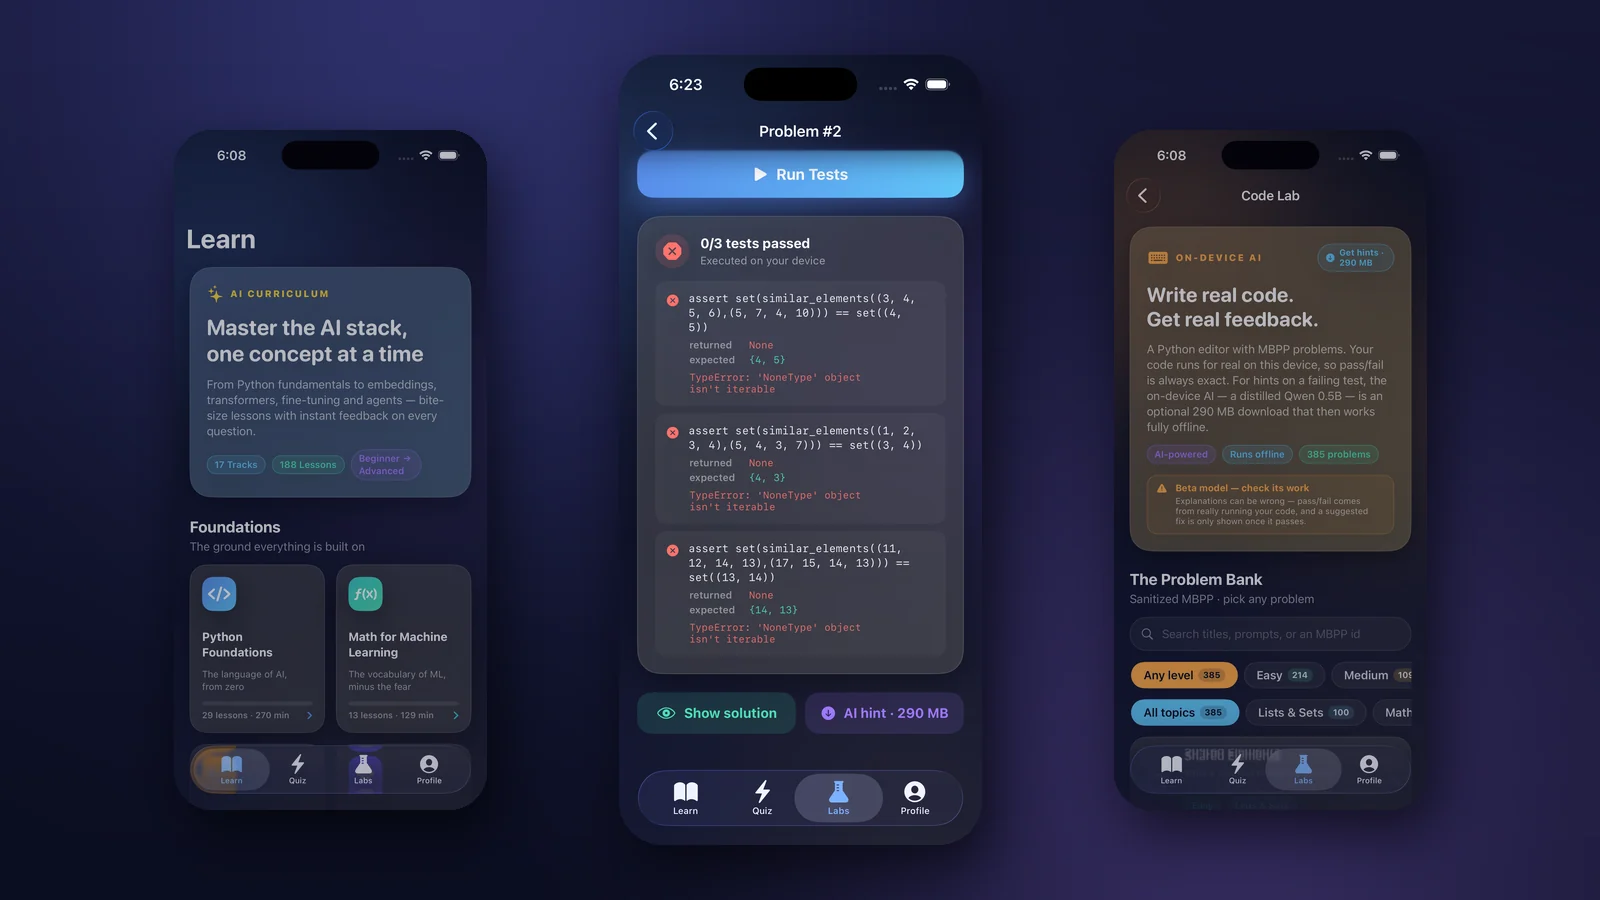
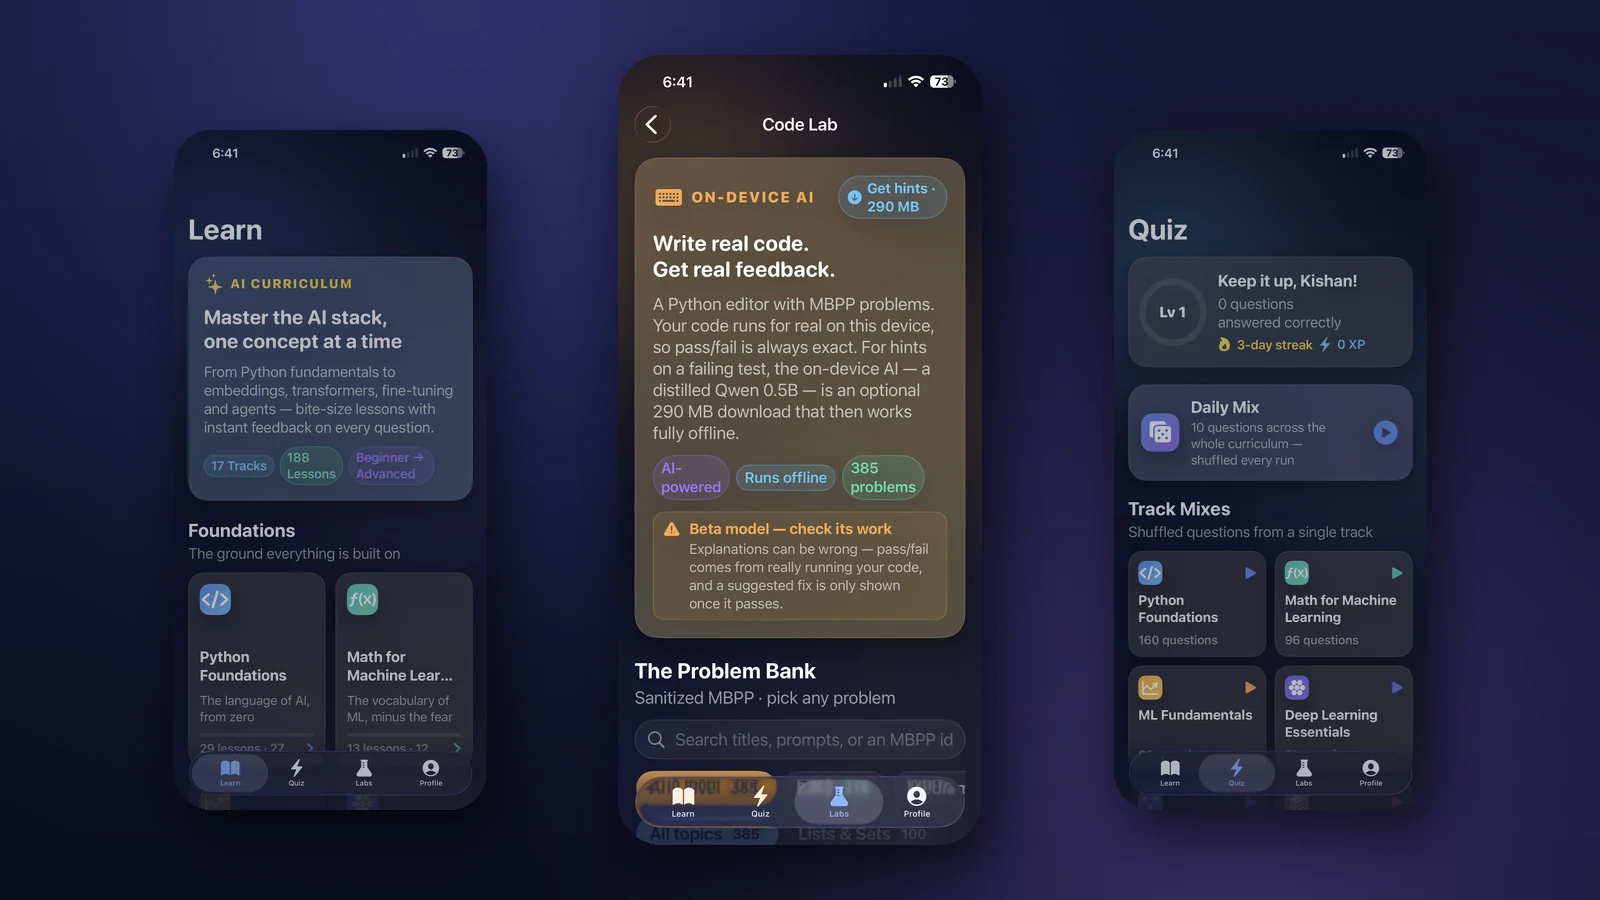
Use real-device captures, and lead with the verified AI repair
Every screenshot on the page now comes from a physical iPhone rather than
the Simulator, which matters for one of them in particular: the AI Hint
card showing 'Verified - passes all tests'. MLX cannot run in the
Simulator, so that screen was impossible to capture there - the single
most distinctive thing the project does had no picture of it. Now it is
the first card.

The hero is recomposed from device captures too, so the status bars match
across all three screens in it.

Also adds the launch screen as a card. The branding was built here - icon,
wordmark and launch artwork generated from one set of coordinates - and it
is cheap evidence of care.

diff --git a/index.html b/index.html
@@ -145,7 +145,7 @@
       </div>
     </div>
     <img class="hero-shot" src="assets/hero.webp" width="1600" height="900"
-         alt="Neuron on iPhone: the curriculum, a failing test showing returned versus expected, and the Code Lab problem bank">
+         alt="Neuron running on iPhone: the curriculum, the Code Lab, and the quiz">
   </div>
 </header>
 
@@ -343,43 +343,43 @@
   <div class="wrap">
     <div class="eyebrow">The app</div>
     <h2>Screens</h2>
-    <p class="lede">Captured from the shipping build.</p>
+    <p class="lede">Captured from the shipping build on a physical iPhone.</p>
     <div class="shots">
       <figure class="shot" style="margin:0">
-        <a href="assets/crops/08-failing-test.webp" target="_blank" rel="noopener">
-          <img loading="lazy" src="assets/crops/08-failing-test.webp" width="1000" height="750" alt="Deterministic feedback">
+        <a href="assets/crops/ai-hint.webp" target="_blank" rel="noopener">
+          <img loading="lazy" src="assets/crops/ai-hint.webp" width="1000" height="750" alt="Verified AI repair">
         </a>
-        <figcaption><b>Deterministic feedback</b>Returned vs expected, plus the real interpreter error — from a bare AssertionError.</figcaption>
+        <figcaption><b>Verified AI repair</b>Captured on a real iPhone. The model drafted this fix, Neuron ran it against the tests, and only then showed it — “Verified — passes all tests”.</figcaption>
       </figure>
       <figure class="shot" style="margin:0">
-        <a href="assets/crops/09-solution.webp" target="_blank" rel="noopener">
-          <img loading="lazy" src="assets/crops/09-solution.webp" width="1000" height="750" alt="Two ways forward">
+        <a href="assets/crops/failing-test.webp" target="_blank" rel="noopener">
+          <img loading="lazy" src="assets/crops/failing-test.webp" width="1000" height="750" alt="Deterministic feedback">
         </a>
-        <figcaption><b>Two ways forward</b>An audited reference solution, or an AI hint whose fix is run before it is shown.</figcaption>
+        <figcaption><b>Deterministic feedback</b>What the function returned, what the test expected, and the real interpreter error — recovered from a bare AssertionError.</figcaption>
       </figure>
       <figure class="shot" style="margin:0">
-        <a href="assets/crops/06-codelab.webp" target="_blank" rel="noopener">
-          <img loading="lazy" src="assets/crops/06-codelab.webp" width="1000" height="750" alt="385 exercises">
+        <a href="assets/crops/codelab.webp" target="_blank" rel="noopener">
+          <img loading="lazy" src="assets/crops/codelab.webp" width="1000" height="750" alt="Real execution, no server">
         </a>
-        <figcaption><b>385 exercises</b>MBPP problems, searchable and filterable by topic and difficulty.</figcaption>
+        <figcaption><b>Real execution, no server</b>385 MBPP exercises. Code runs on the device through MicroPython compiled to WebAssembly, so pass/fail is exact.</figcaption>
       </figure>
       <figure class="shot" style="margin:0">
-        <a href="assets/crops/03-learn.webp" target="_blank" rel="noopener">
-          <img loading="lazy" src="assets/crops/03-learn.webp" width="1000" height="750" alt="17 tracks">
+        <a href="assets/crops/learn.webp" target="_blank" rel="noopener">
+          <img loading="lazy" src="assets/crops/learn.webp" width="1000" height="750" alt="17 tracks, 188 lessons">
         </a>
-        <figcaption><b>17 tracks</b>Transformers, RAG, agents, fine-tuning, distillation, safety.</figcaption>
+        <figcaption><b>17 tracks, 188 lessons</b>Python fundamentals through embeddings, transformers, RAG, fine-tuning, distillation and AI safety.</figcaption>
       </figure>
       <figure class="shot" style="margin:0">
-        <a href="assets/crops/10-beta-notice.webp" target="_blank" rel="noopener">
-          <img loading="lazy" src="assets/crops/10-beta-notice.webp" width="1000" height="750" alt="Honest limits">
+        <a href="assets/crops/quiz.webp" target="_blank" rel="noopener">
+          <img loading="lazy" src="assets/crops/quiz.webp" width="1000" height="750" alt="Spaced practice">
         </a>
-        <figcaption><b>Honest limits</b>The model's beta status is stated plainly, not buried in settings.</figcaption>
+        <figcaption><b>Spaced practice</b>A daily mix across the whole curriculum, plus per-track mixes, with progress and streaks kept on device.</figcaption>
       </figure>
       <figure class="shot" style="margin:0">
-        <a href="assets/crops/12-acks.webp" target="_blank" rel="noopener">
-          <img loading="lazy" src="assets/crops/12-acks.webp" width="1000" height="750" alt="Licensing">
+        <a href="assets/crops/launch.webp" target="_blank" rel="noopener">
+          <img loading="lazy" src="assets/crops/launch.webp" width="1000" height="750" alt="Branding">
         </a>
-        <figcaption><b>Licensing</b>Every dependency attributed, with modifications stated.</figcaption>
+        <figcaption><b>Branding</b>Icon, wordmark and launch screen designed for the app — drawn as vectors and generated from one set of coordinates.</figcaption>
       </figure>
     </div>
   </div>
